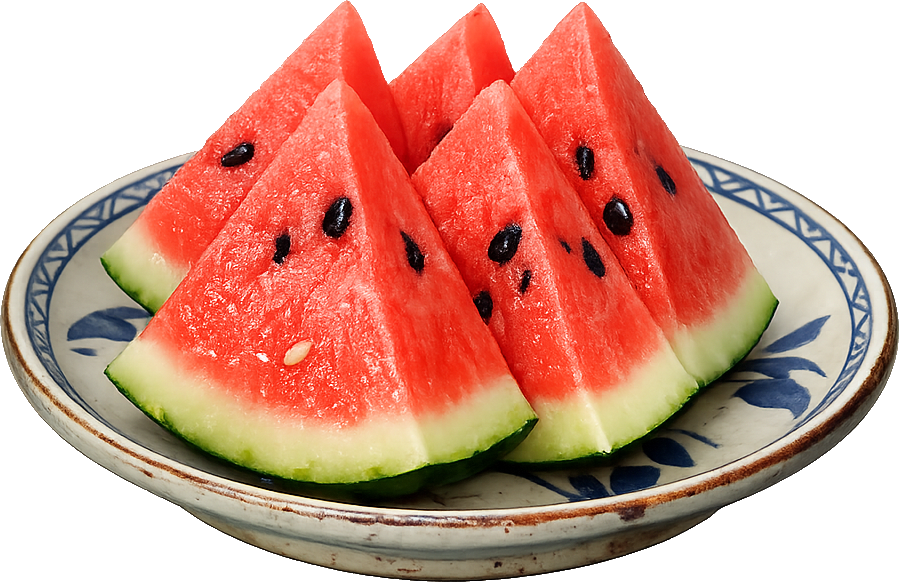
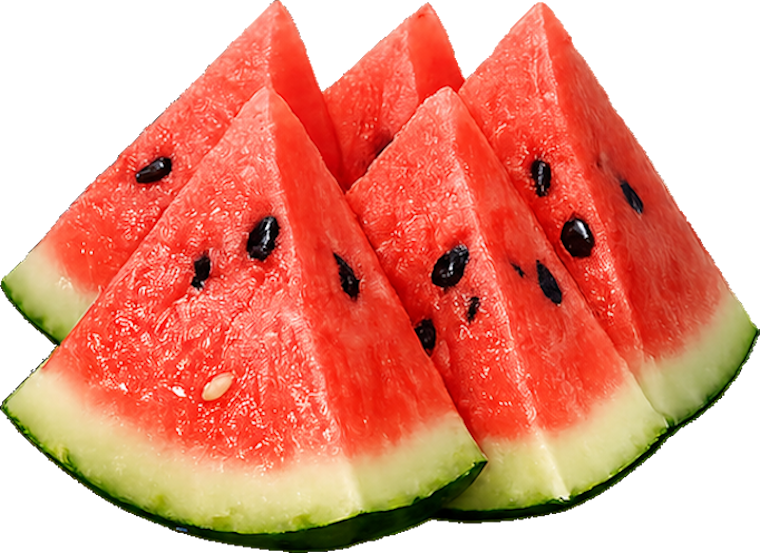
スイカと皿の画像をそれぞれに分け、スタイルを調整して表示を改善

diff --git a/index.html b/index.html
@@ -41,18 +41,6 @@
             display: block;
         }
 
-        #watermelon {
-            position: absolute;
-            width: 300px;
-            left: 50%;
-            bottom: 15%;
-            transform: translateX(-50%);
-            z-index: 10;
-            pointer-events: none;
-
-            filter: drop-shadow(0 8px 8px rgba(0,0,0,0.25));
-        }
-
         #ramune {
             position: absolute;
             width: 60px;
@@ -63,6 +51,30 @@
             pointer-events: none;
 
             filter: drop-shadow(0 8px 8px rgba(0,0,0,0.25));
+        }
+
+        #plate {
+            position: absolute;
+            width: 300px;
+            left: 50%;
+            bottom: 15%;
+            transform: translateX(-50%);
+            z-index: 15;
+            pointer-events: none;
+
+            filter: drop-shadow(0 8px 8px rgba(0,0,0,0.25));
+        }
+
+        #watermelon {
+            position: absolute;
+            width: 228px;
+            left: 50%;
+            bottom: calc(15% + 28.2px);
+            transform: translateX(-50%);
+            z-index: 20;
+            pointer-events: none;
+
+            filter: drop-shadow(1px 6px 5px rgba(0,0,0,0.8));
         }
 
         #eatDisplayCanvas {
@@ -683,6 +695,7 @@
             <img id="veranda" src="veranda.png">
         </div>
         <img id="ramune" src="ramune.png">
+        <img id="plate" src="plate.png">
         <img id="watermelon" src="watermelon.png">
         <canvas id="eatDisplayCanvas"></canvas>
         <svg id="comboBorder">
